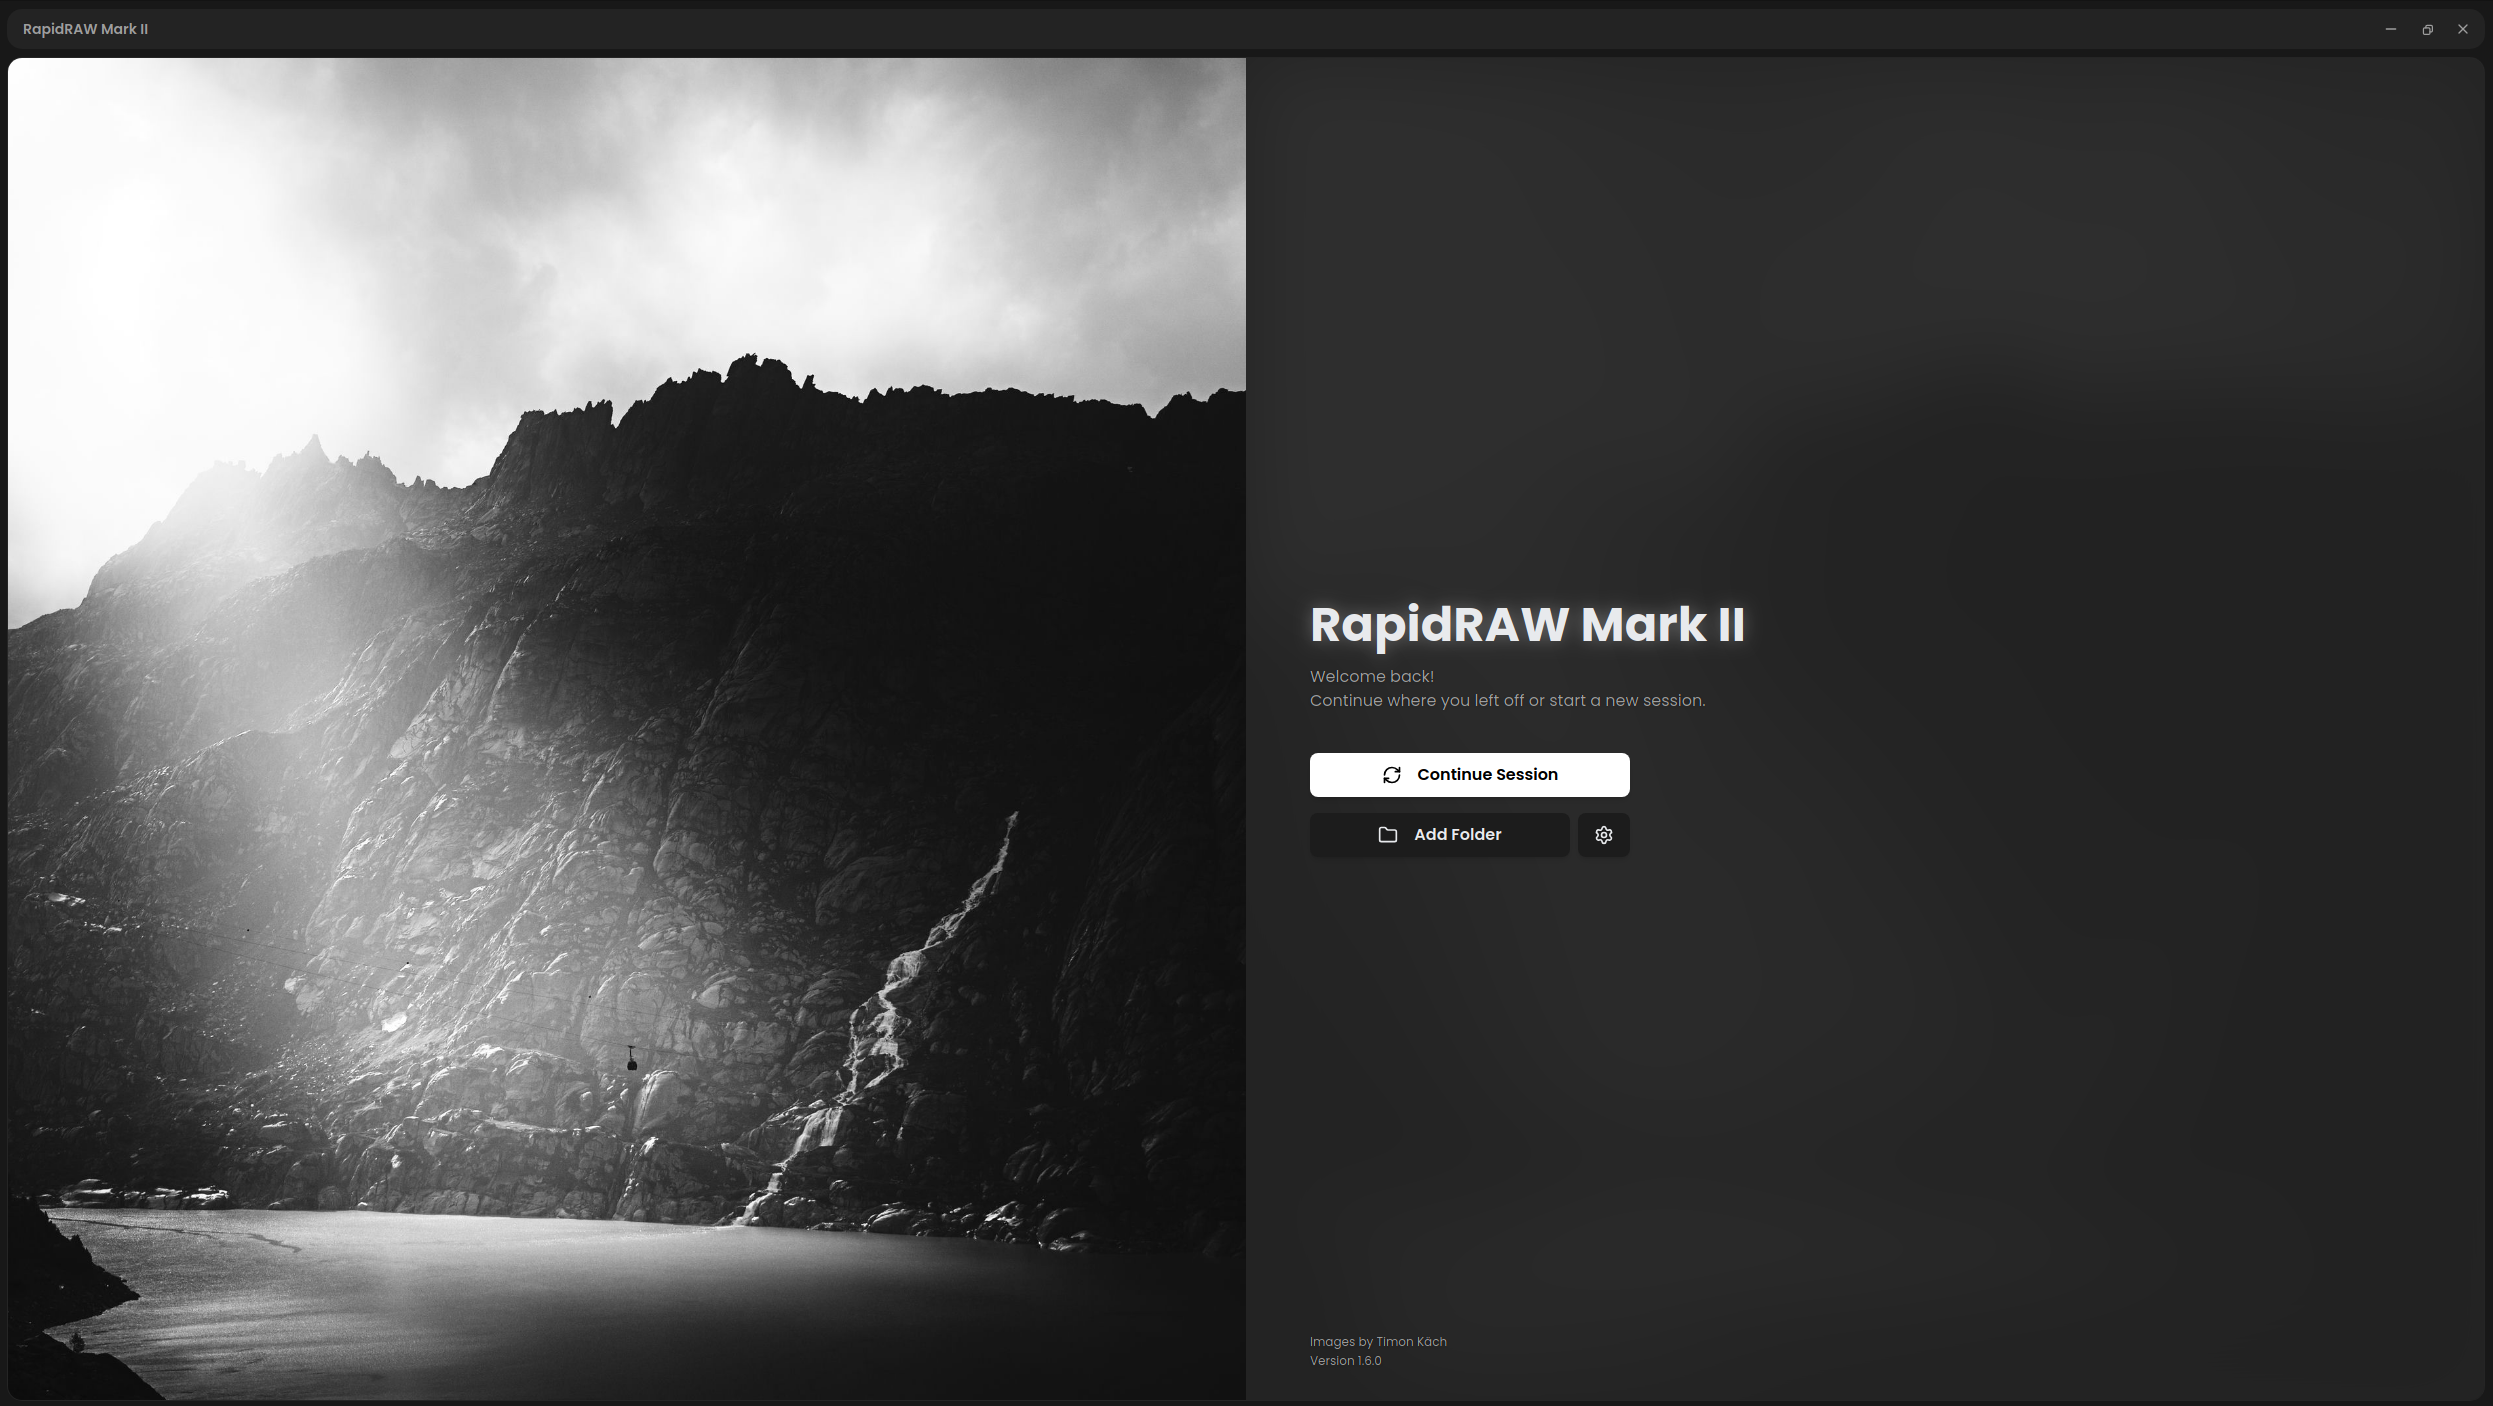
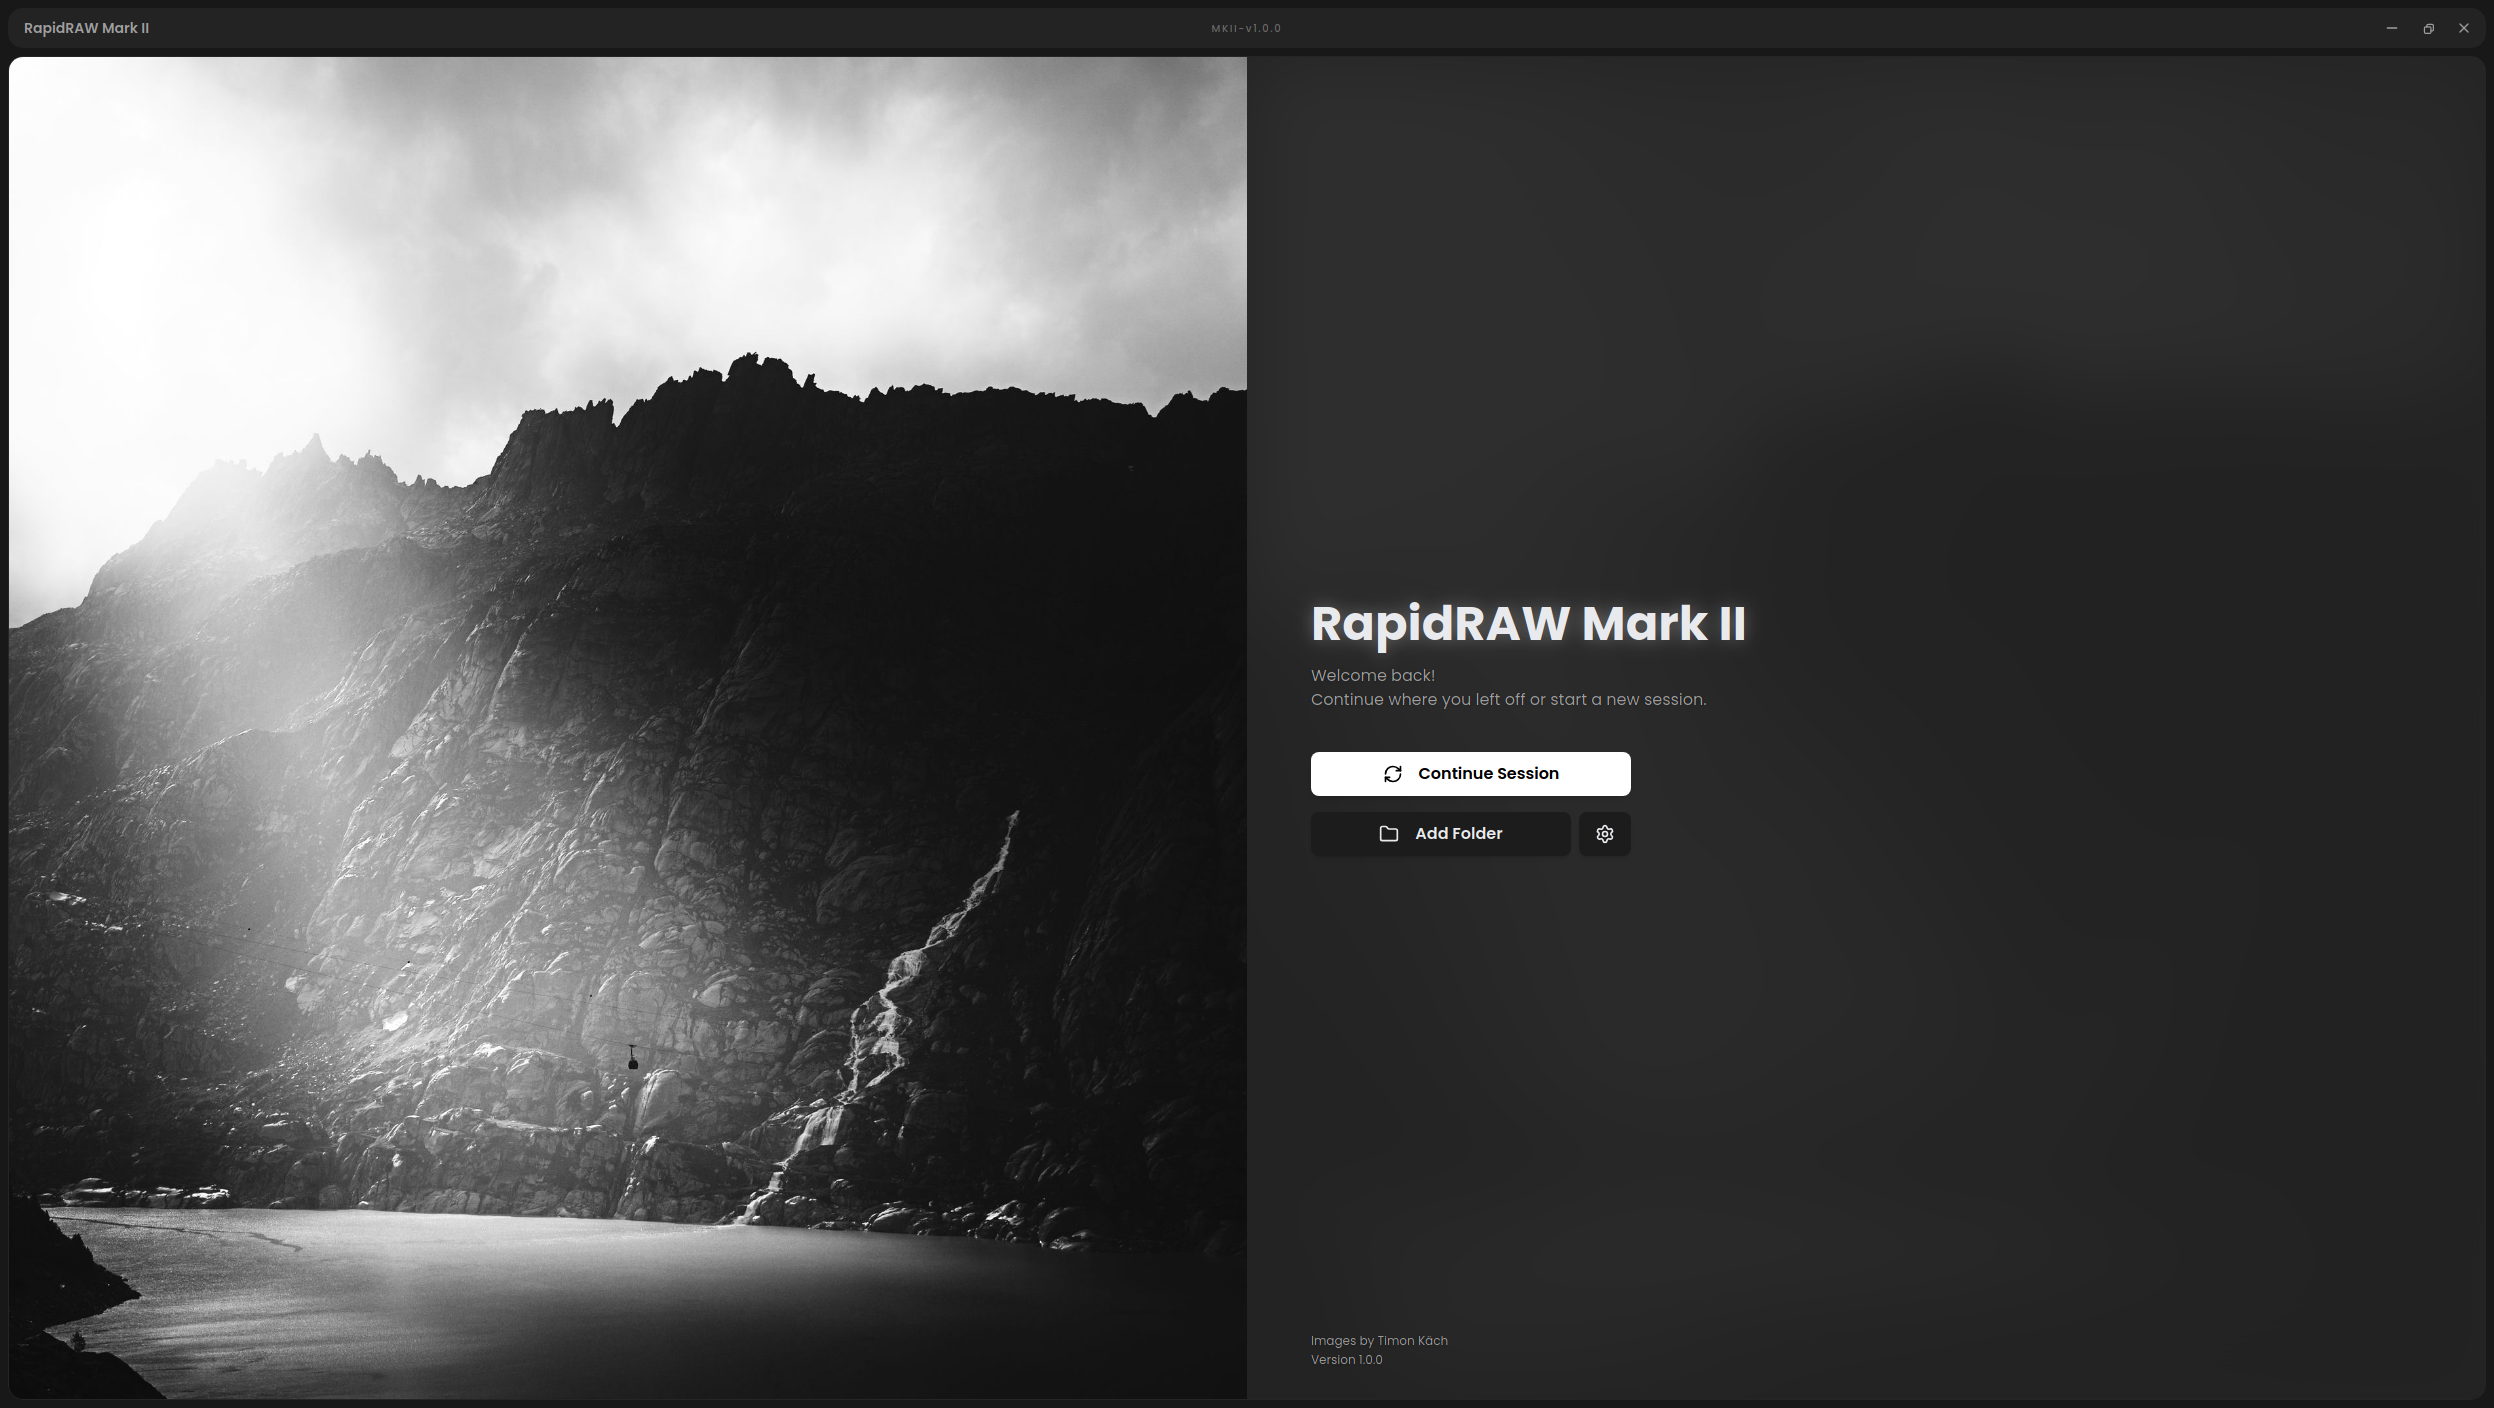
Refresh README for MKII-v1.0.0

diff --git a/.github/readme-preview.html b/.github/readme-preview.html
@@ -593,7 +593,7 @@
 
             <div class="badges" aria-label="Project badges">
               <span class="badge"
-                ><span class="badge-label">MKII</span><span class="badge-value">v1.6.0-mkii.5</span></span
+                ><span class="badge-label">release</span><span class="badge-value">MKII-v1.0.0</span></span
               >
               <span class="badge"
                 ><span class="badge-label">Windows</span><span class="badge-value">passing</span></span
@@ -607,6 +607,8 @@
             </div>
 
             <p class="quick-links">
+              <a href="https://github.com/RustRunner/RapidRAW-MKII/releases/latest">Download latest release</a>
+              <span>·</span>
               <a href="https://github.com/RustRunner/RapidRAW-MKII/tags">Source milestones</a>
               <span>·</span>
               <a href="#mkii-changes">MKII changes</a>
@@ -739,11 +741,11 @@
 
           <h2>Versions and builds</h2>
           <p>
-            Versioned MKII source milestones are published under
-            <a href="https://github.com/RustRunner/RapidRAW-MKII/tags">Tags</a>. The Windows tag workflow prepares
-            installer artifacts and draft GitHub Releases; published packages will appear on the
-            <a href="https://github.com/RustRunner/RapidRAW-MKII/releases">Releases page</a>. Until a package is
-            published for your platform, build the <code>mkii</code> branch from source.
+            The current supported release is
+            <a href="https://github.com/RustRunner/RapidRAW-MKII/releases/tag/MKII-v1.0.0">MKII-v1.0.0</a>, with
+            prebuilt packages for Windows x64 and Linux ARM64. Historical source milestones remain available under
+            <a href="https://github.com/RustRunner/RapidRAW-MKII/tags">Tags</a>. For platforms without a published
+            package, build the <code>mkii</code> branch from source.
           </p>
           <p>
             For the mainstream project, its latest features, and its official packages, use the
@@ -760,7 +762,7 @@
 <span class="prompt">$</span> cd RapidRAW-MKII
 <span class="prompt">$</span> npm ci
 <span class="prompt">$</span> npm start</code></pre>
-          <p>Useful development checks:</p>
+          <p>Available development commands:</p>
           <pre><code><span class="prompt">$</span> npm run typecheck
 <span class="prompt">$</span> npm run lint
 <span class="prompt">$</span> npm run build</code></pre>

diff --git a/README.md b/README.md
@@ -10,12 +10,12 @@
 
 <br><br>
 
-[![MKII tag](https://img.shields.io/github/v/tag/RustRunner/RapidRAW-MKII?include_prereleases&sort=semver&style=flat-square&label=MKII&color=4f5b45)](https://github.com/RustRunner/RapidRAW-MKII/tags)
+[![Latest release](https://img.shields.io/github/v/release/RustRunner/RapidRAW-MKII?style=flat-square&label=release&color=4f5b45)](https://github.com/RustRunner/RapidRAW-MKII/releases/latest)
 [![Windows release](https://img.shields.io/github/actions/workflow/status/RustRunner/RapidRAW-MKII/windows-release.yml?style=flat-square&label=Windows&color=4f5b45)](https://github.com/RustRunner/RapidRAW-MKII/actions/workflows/windows-release.yml)
 [![License: AGPL-3.0](https://img.shields.io/badge/license-AGPL--3.0-4f5b45?style=flat-square)](LICENSE)
 [![Upstream: RapidRAW](https://img.shields.io/badge/upstream-RapidRAW-59636b?style=flat-square)](https://github.com/CyberTimon/RapidRAW)
 
-[Source milestones](https://github.com/RustRunner/RapidRAW-MKII/tags) · [MKII changes](#what-mark-ii-changes) · [Build from source](#build-from-source) · [Original RapidRAW](https://github.com/CyberTimon/RapidRAW)
+[Download latest release](https://github.com/RustRunner/RapidRAW-MKII/releases/latest) · [Source milestones](https://github.com/RustRunner/RapidRAW-MKII/tags) · [MKII changes](#what-mark-ii-changes) · [Build from source](#build-from-source) · [Original RapidRAW](https://github.com/CyberTimon/RapidRAW)
 
 </div>
 
@@ -68,7 +68,7 @@ Mark II is engineered for degraded source material where positive identification
 
 ## Versions and builds
 
-Versioned MKII source milestones are published under [Tags](https://github.com/RustRunner/RapidRAW-MKII/tags). The Windows tag workflow prepares installer artifacts and draft GitHub Releases; published packages will appear on the [Releases page](https://github.com/RustRunner/RapidRAW-MKII/releases). Until a package is published for your platform, build the `mkii` branch from source.
+The current supported release is [MKII-v1.0.0](https://github.com/RustRunner/RapidRAW-MKII/releases/tag/MKII-v1.0.0), with prebuilt packages for Windows x64 and Linux ARM64. Historical source milestones remain available under [Tags](https://github.com/RustRunner/RapidRAW-MKII/tags). For platforms without a published package, build the `mkii` branch from source.
 
 For the mainstream project, its latest features, and its official packages, use the [original RapidRAW releases](https://github.com/CyberTimon/RapidRAW/releases).
 
@@ -83,7 +83,7 @@ npm ci
 npm start
 ```
 
-Useful development checks:
+Available development commands:
 
 ```bash
 npm run typecheck
